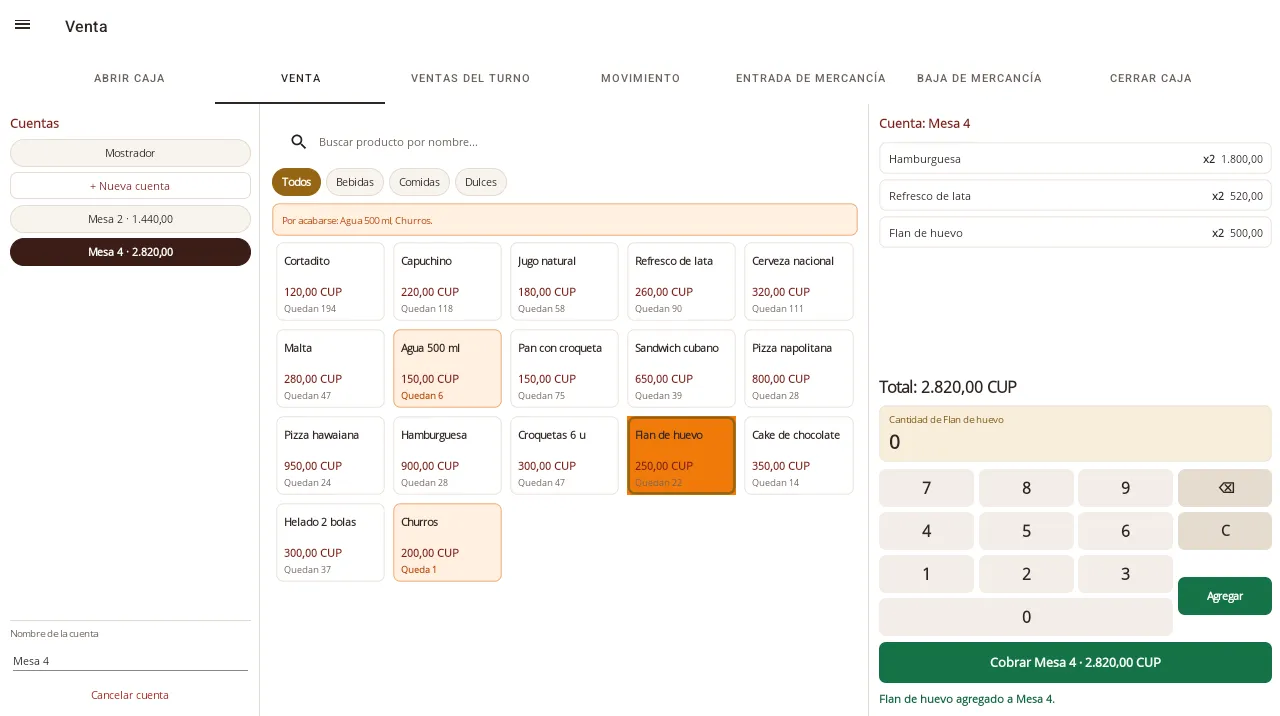
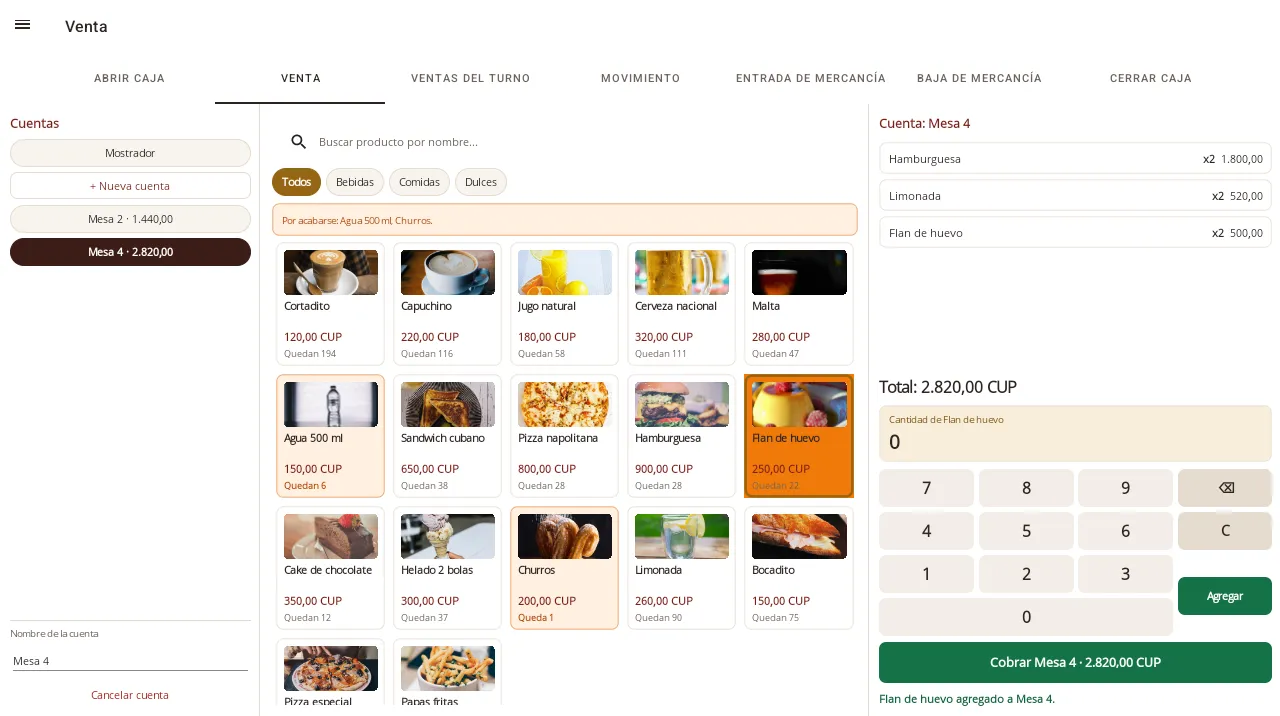
Capturas con fotos de productos y en modo oscuro

Changed region(s): [[0.2188, 0.338, 0.6875, 0.9832], [0.6875, 0.2458, 0.75, 0.2765], [0.5938, 0.8296, 0.625, 0.8911]]

diff --git a/index.html b/index.html
@@ -112,6 +112,8 @@
   .captura figcaption { margin-top: 12px; font-size: 15px; color: var(--carbon-suave); }
   .captura figcaption b { color: var(--tierra-media); }
   .captura.principal { margin-bottom: 28px; }
+  .captura.oscuro { margin: 40px 0 0; }
+  .captura.oscuro .marco { background: #000; }
   .captura.principal .marco { padding: 12px; border-radius: 22px; }
   .marco { display: block; }
   .filas { display: grid; gap: 32px; }
@@ -307,17 +309,17 @@
       <p class="entrada">Capturas reales de Caishen 1.8 en una tablet de 10 pulgadas. En la PC con Windows se ve igual.</p>
 
       <figure class="captura principal">
-        <div class="marco"><img src="img/venta.webp" width="1280" height="716" loading="lazy" alt="Pantalla de venta: a la izquierda las cuentas abiertas por mesa, al centro el catálogo con precios y existencias, a la derecha el pedido de la Mesa 4 con su total y el teclado de cantidades."></div>
-        <figcaption><b>Vender.</b> Catálogo con precio y existencias, cuentas abiertas por mesa y el pedido a la derecha. Avisa lo que está por acabarse.</figcaption>
+        <div class="marco"><img src="img/venta.webp" width="1280" height="716" loading="lazy" alt="Pantalla de venta: a la izquierda las cuentas abiertas por mesa, al centro el catálogo con foto, precio y existencias de cada producto, a la derecha el pedido de la Mesa 4 con su total y el teclado de cantidades."></div>
+        <figcaption><b>Vender.</b> Cada producto con su foto, precio y existencias. Cuentas abiertas por mesa y el pedido a la derecha. Avisa lo que está por acabarse.</figcaption>
       </figure>
 
       <div class="filas">
         <figure class="captura fila">
-          <a class="marco" href="img/cobro.webp" target="_blank" rel="noopener"><img src="img/cobro.webp" width="730" height="480" loading="lazy" alt="Ventana de cobro: el cliente paga 5 USD por una cuenta de 1.790 CUP y Caishen calcula 260 CUP de vuelto."></a>
+          <a class="marco" href="img/cobro.webp" target="_blank" rel="noopener"><img src="img/cobro.webp" width="730" height="345" loading="lazy" alt="Ventana de cobro: el cliente paga 5 USD por una cuenta de 1.790 CUP y Caishen calcula 260 CUP de vuelto."></a>
           <figcaption><b>Cobrar en divisa.</b> El cliente paga con 5 USD una cuenta de 1.790 CUP. Caishen la convierte a la tasa del día y te dice el vuelto: 260 CUP. Se puede mezclar efectivo, divisa y transferencia en un mismo pago.</figcaption>
         </figure>
         <figure class="captura fila">
-          <a class="marco" href="img/panel.webp" target="_blank" rel="noopener"><img src="img/panel.webp" width="905" height="510" loading="lazy" alt="Panel del administrador: lo vendido en el día, la ganancia, el margen, el ticket promedio y una alerta de productos en el mínimo."></a>
+          <a class="marco" href="img/panel-oscuro.webp" target="_blank" rel="noopener"><img src="img/panel-oscuro.webp" width="905" height="510" loading="lazy" alt="Panel del administrador en modo oscuro: lo vendido en el día, la ganancia, el margen, el ticket promedio y una alerta de productos en el mínimo."></a>
           <figcaption><b>El día de un vistazo.</b> Lo vendido, la ganancia y el margen, si la caja cuadra, y qué productos hay que reponer antes de que se acaben.</figcaption>
         </figure>
         <figure class="captura fila">
@@ -325,6 +327,11 @@
           <figcaption><b>Cerrar la caja.</b> Para cada moneda, lo que debería haber en la gaveta y de dónde sale: fondo, ventas, vueltos y salidas. Cuentas, escribes lo que hay y Caishen te dice si cuadra.</figcaption>
         </figure>
       </div>
+
+      <figure class="captura principal oscuro">
+        <a class="marco" href="img/venta-oscuro.webp" target="_blank" rel="noopener"><img src="img/venta-oscuro.webp" width="1280" height="716" loading="lazy" alt="La misma pantalla de venta en modo oscuro: fondo casi negro, textos en oro y las fotos de los productos."></a>
+        <figcaption><b>También en modo oscuro.</b> Cansa menos la vista en locales con poca luz y en los turnos de noche. Se cambia con un toque desde el menú.</figcaption>
+      </figure>
     </div>
   </section>
 
@@ -474,7 +481,7 @@
 
 <footer class="pie">
   <div class="envoltura">
-    <span>© 2026 Caishen · Caja para pymes</span>
+    <span>© 2026 Caishen · Caja para pymes · Fotos de los productos de demostración: StockSnap y Rawpixel (CC0)</span>
     <span><a href="manual.html">Manual</a> · <a href="#descargar">Descargar</a> · <a href="#preguntas">Preguntas</a></span>
   </div>
 </footer>

diff --git a/README.md b/README.md
@@ -10,7 +10,7 @@ privado y nunca se copia aquí.
 
 - `index.html`: la página.
 - `manual.html`: copia de `Distribucion/Caishen-Manual.html` del repo de la app.
-- `img/`: ícono, moneda e imagen para compartir (de `Distribucion/Marca`), y las capturas en WebP (`venta`, `cobro`, `panel`, `cierre`), sacadas del emulador de tablet con un negocio de demostración («Cafeteria La Ceiba»).
+- `img/`: ícono, moneda e imagen para compartir (de `Distribucion/Marca`), y las capturas en WebP (`venta`, `venta-oscuro`, `cobro`, `panel-oscuro`, `cierre`), sacadas del emulador de tablet con un negocio de demostración («Cafeteria La Ceiba»).
 
 ## Publicar una versión nueva
 
